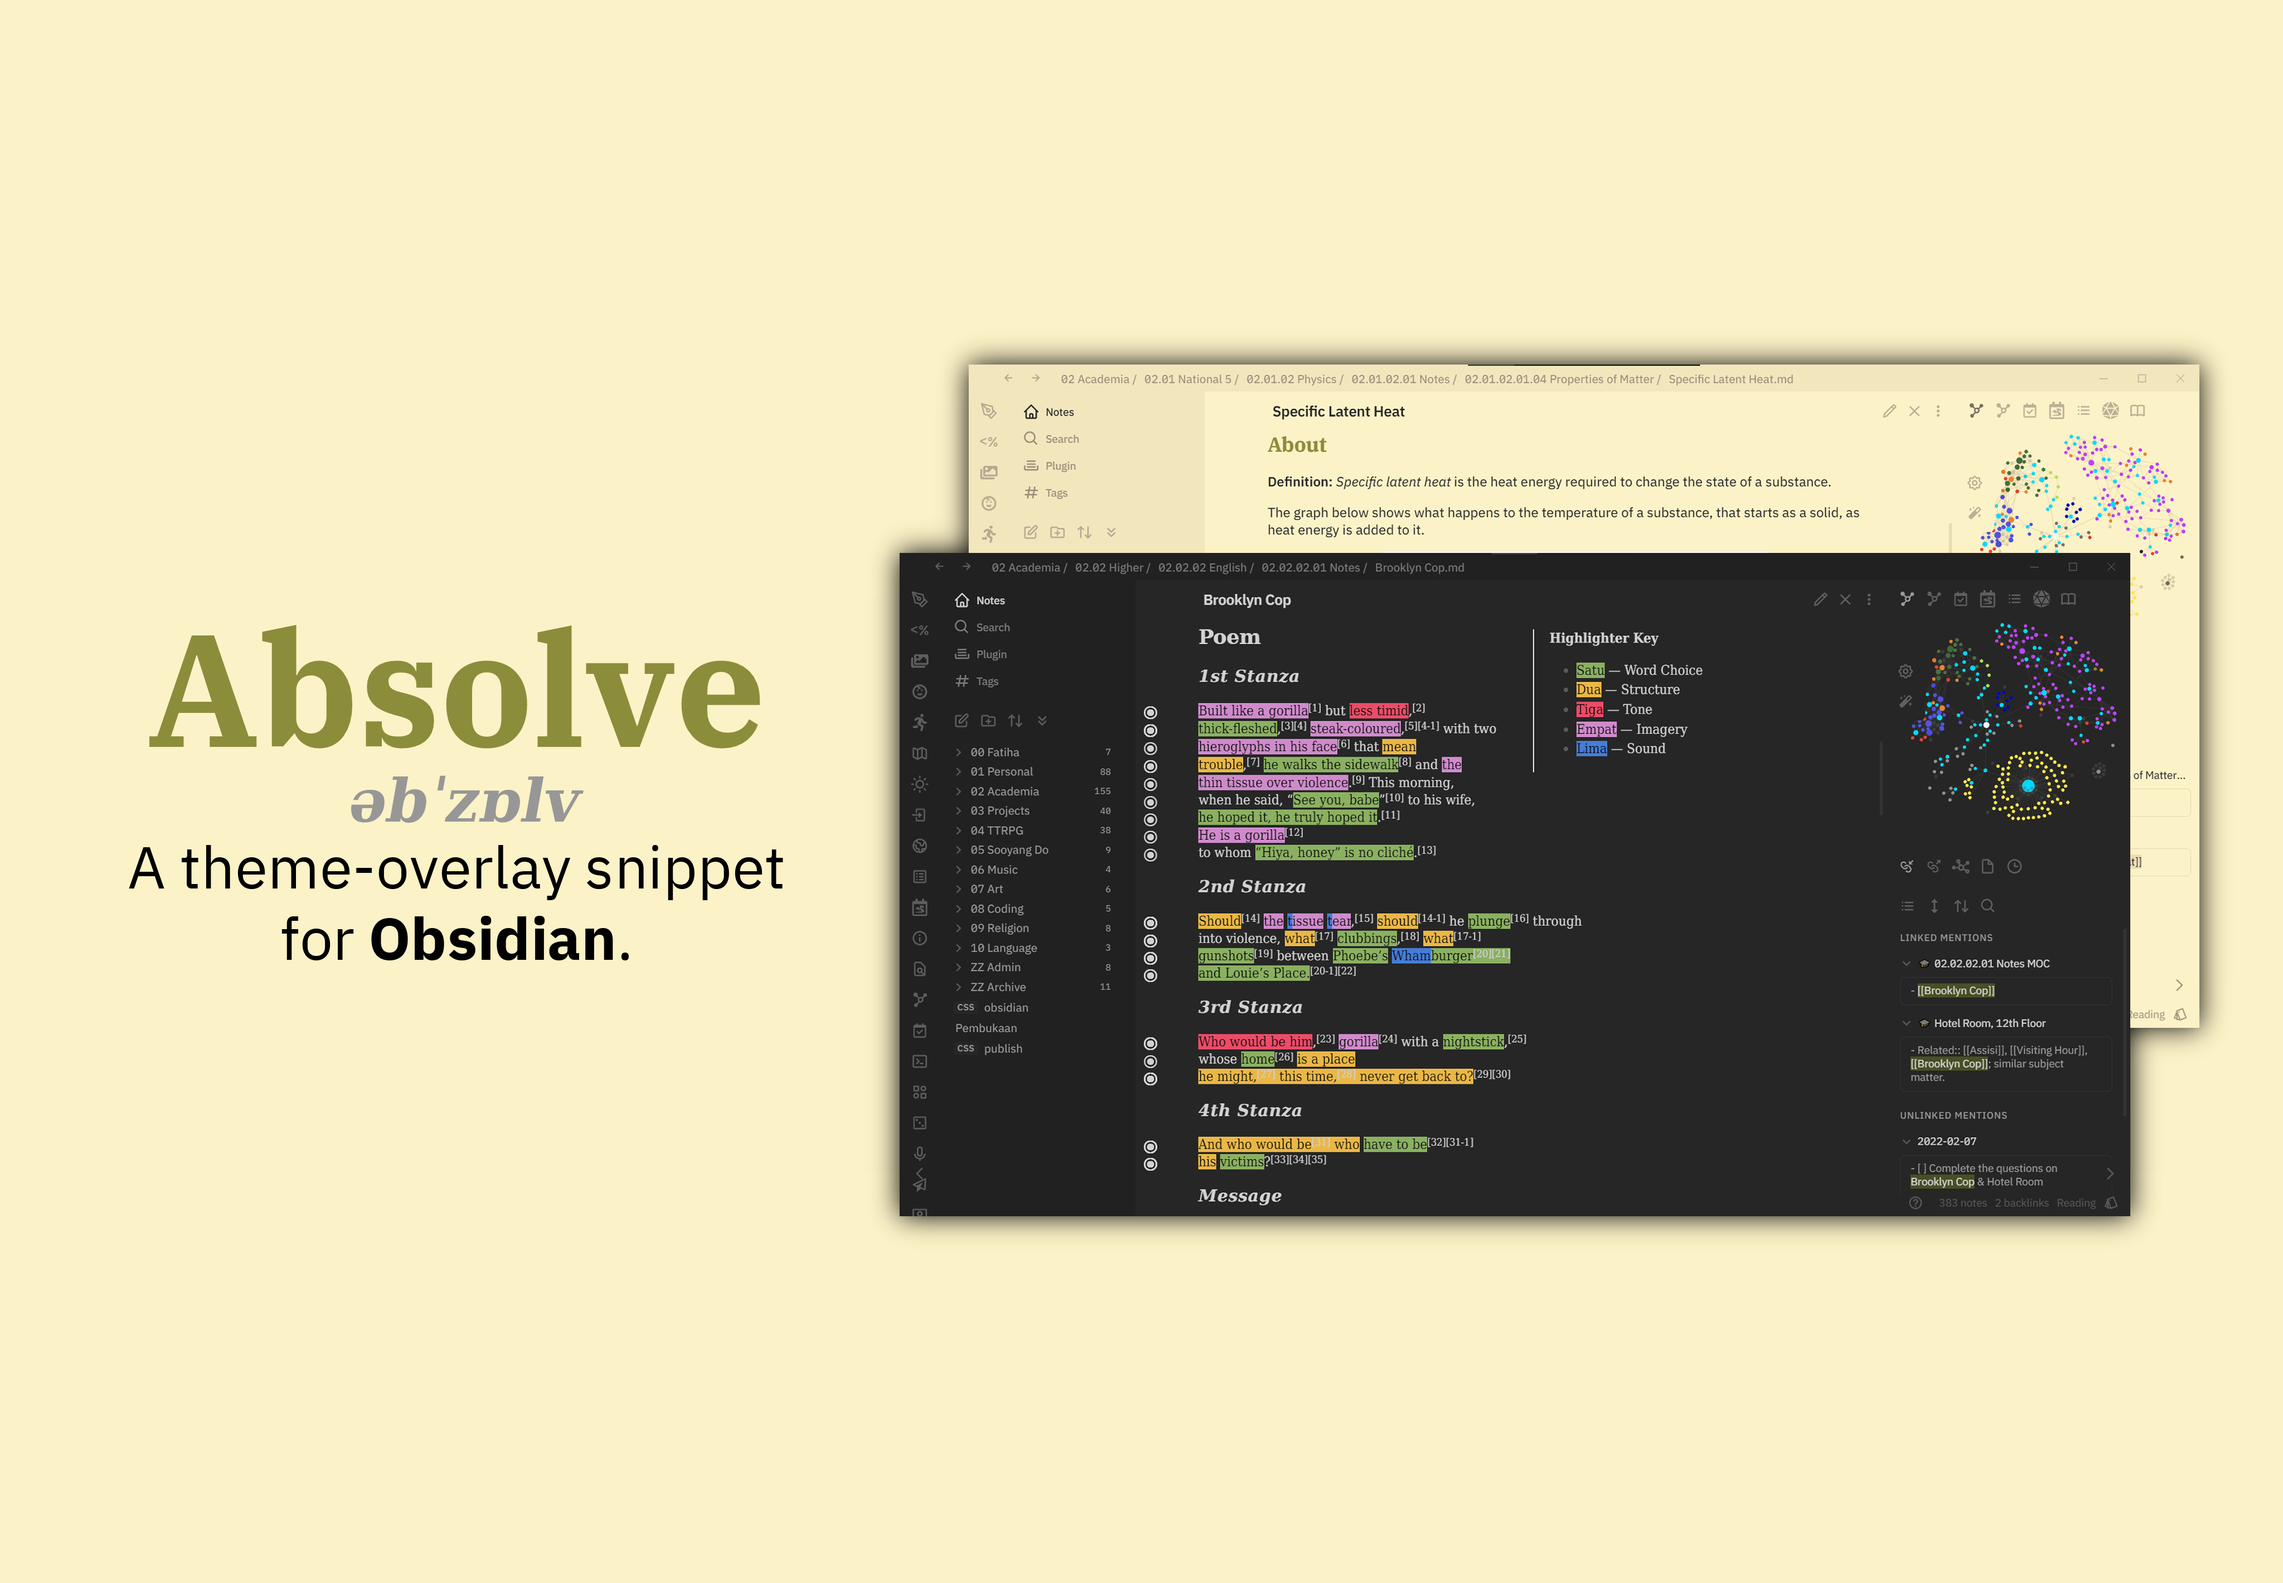
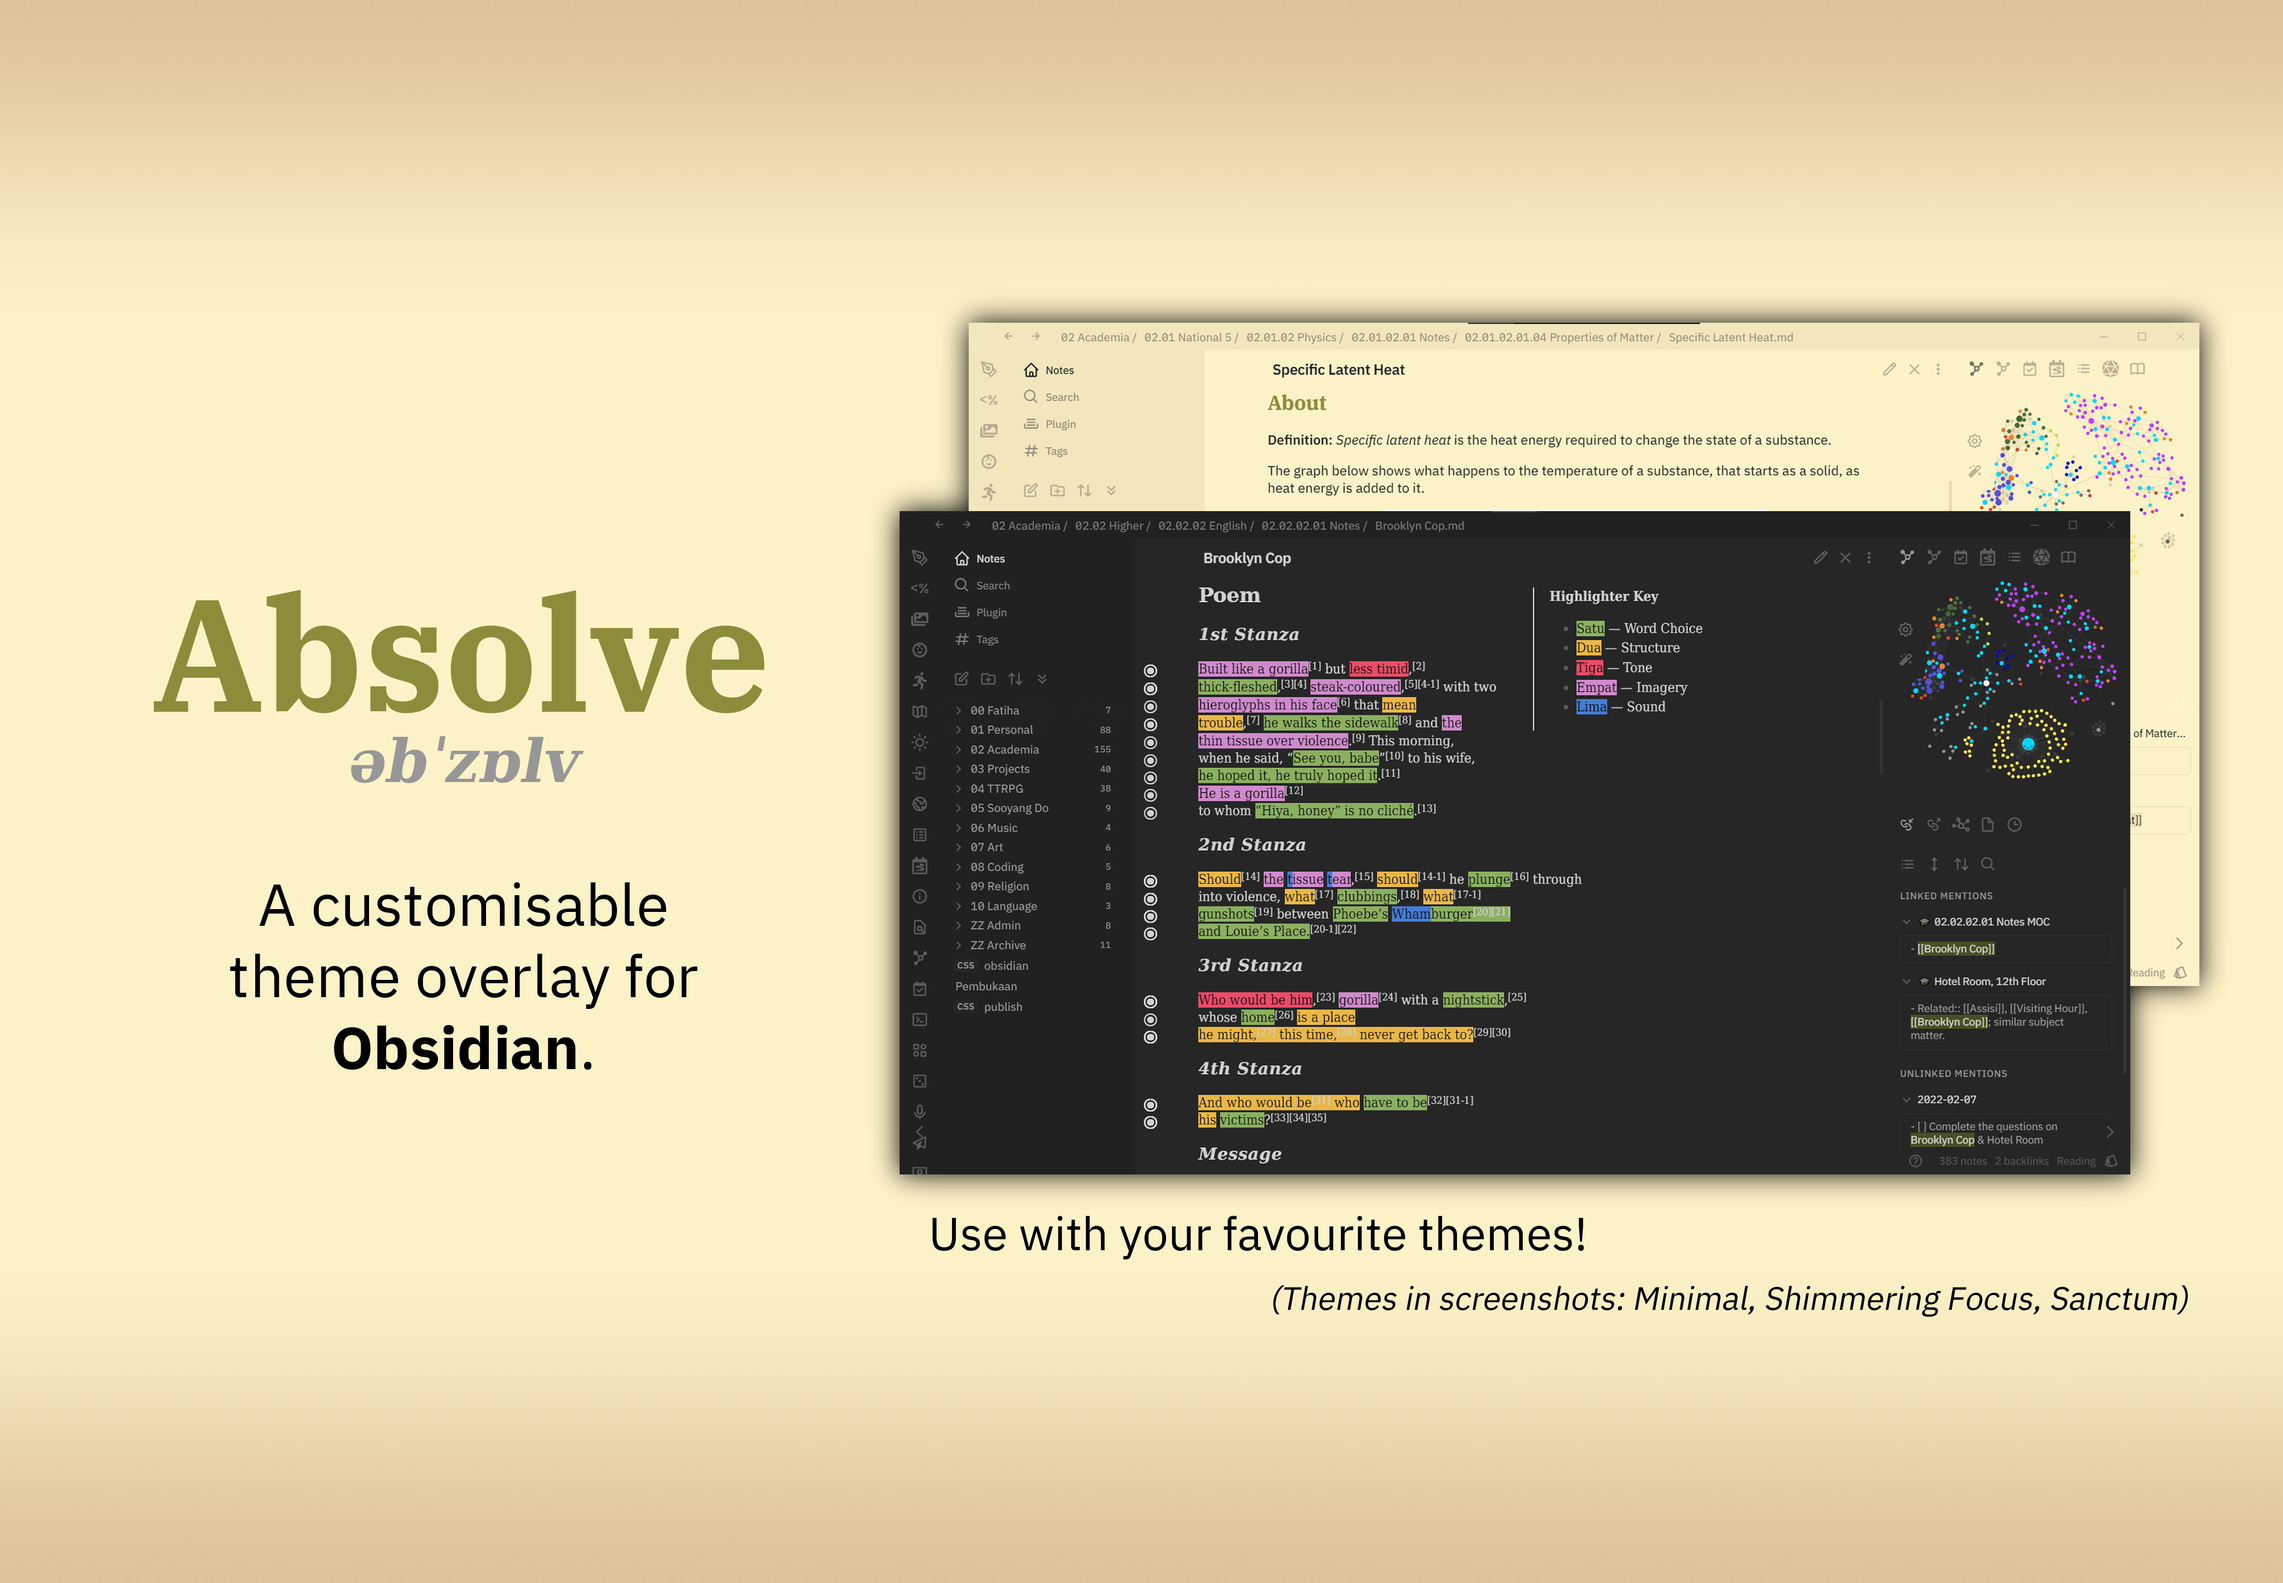
Update README

diff --git a/README.md b/README.md
@@ -1,7 +1,21 @@
-## Absolve
+*əbˈzɒlv*
 
-_əbˈzɒlv_
+# Absolve
 
-A theme overlay snippet for **Obsidian.md**.
+A customisable theme overlay snippet for **Obsidian.md**.
 
 ![](cover.png)
+
+_Absolve_ is a snippet designed to overlay your current theme and add features, preferences, and various fixes. With good support for both mobile and desktop, you'll find that the sky's the limit with making your favourite theme __perfect for you__.
+
+
+
+**Table of Contents:**
+
+- [Features](#Features)
+
+***
+
+### Features
+
+- Lorem ipsum
